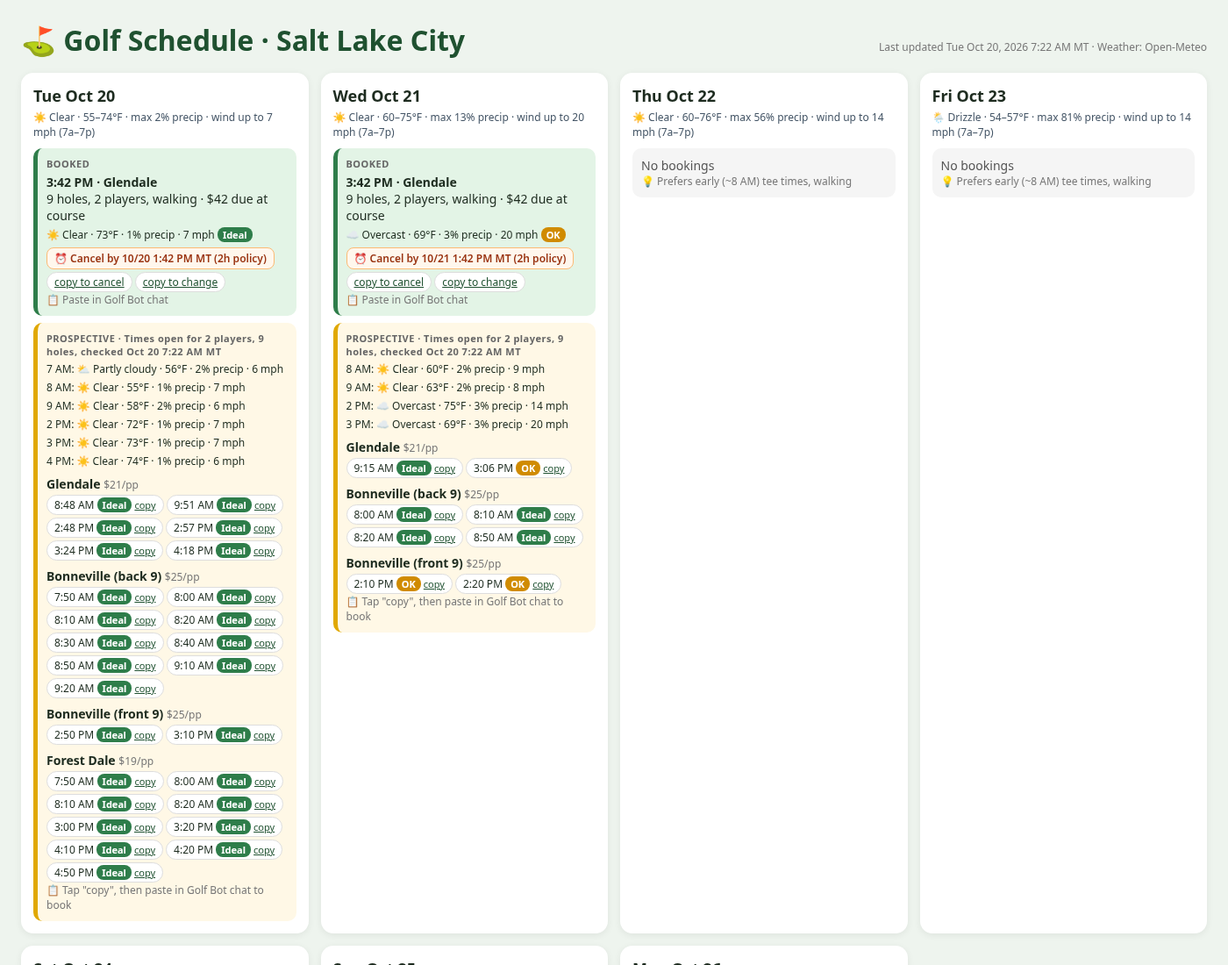
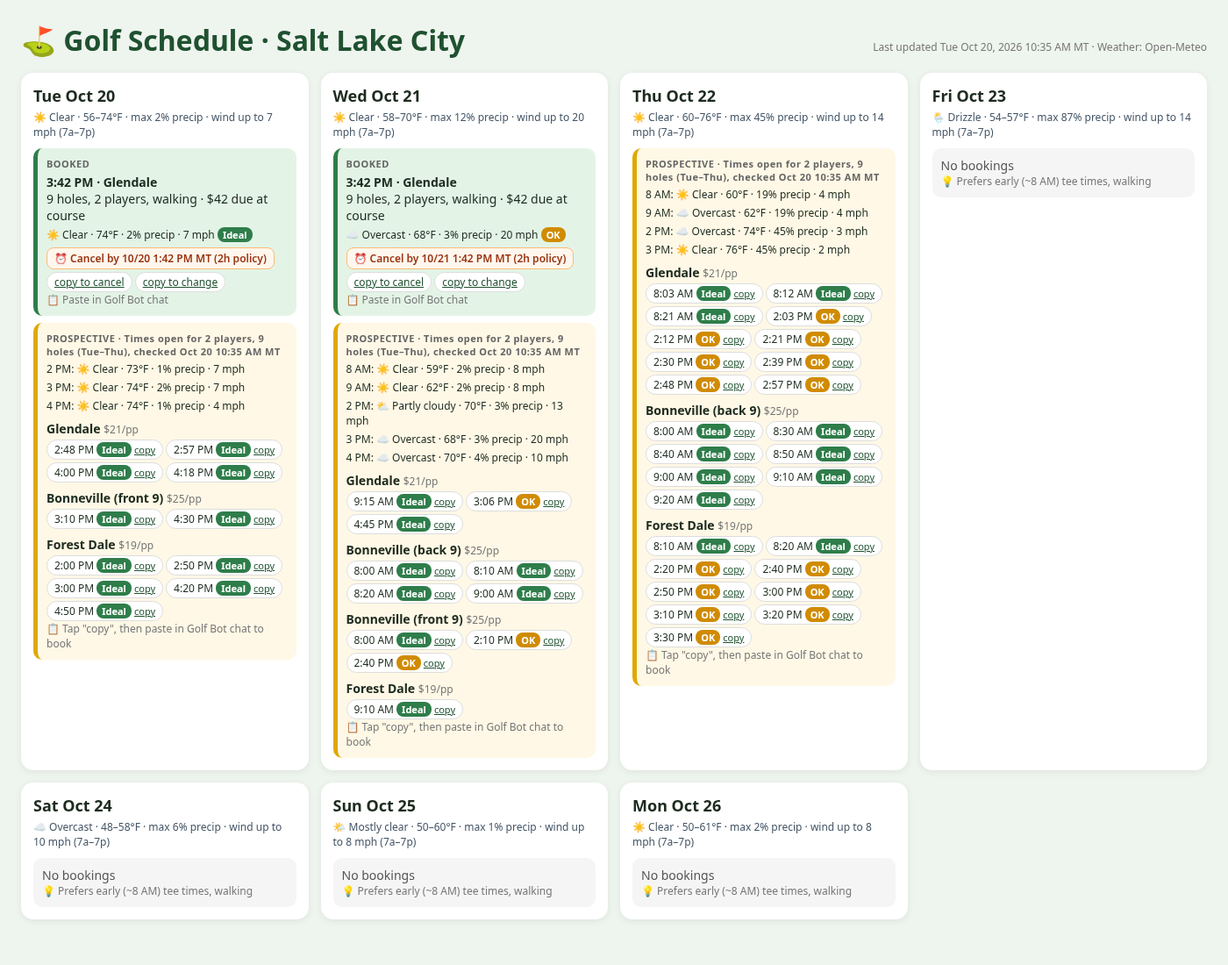
Update schedule 2026-10-20 10:35 MT

diff --git a/index.html b/index.html
@@ -9,5 +9,5 @@ h1{margin:0;color:#1f5130} .top{display:flex;justify-content:space-between;align
 .muted{color:#777;font-size:12px} .wx{font-size:12px;margin-top:4px} .prow{margin-top:8px}
 .cancelby{margin-top:6px;font-size:12px;font-weight:600;color:#9a3412;background:#fff7ed;border:1px solid #fdba74;border-radius:8px;padding:3px 8px;display:inline-block} .copy{font-size:11px;color:#1f5130} .chip{display:inline-block;background:#fff;border:1px solid #ddd;border-radius:14px;padding:2px 8px;margin:3px 3px 0 0;font-size:12px}
 .badge{border-radius:8px;padding:1px 6px;font-size:11px;font-weight:700;color:#fff} .ideal{background:#2e7d4a} .ok{background:#d08b00} .poor{background:#c0392b} .na{background:#888}
-</style></head><body><div class="top"><h1>⛳ Golf Schedule · Salt Lake City</h1><div class="muted">Last updated Tue Oct 20, 2026 7:22 AM MT · Weather: Open-Meteo</div></div>
-<div class="grid"><section class="day"><h2>Tue Oct 20</h2><div class="sum">☀ Clear · 55–74°F · max 2% precip · wind up to 7 mph (7a–7p)</div><div class="slot booked"><div class="tag">BOOKED</div><b>3:42 PM · Glendale</b><div>9 holes, 2 players, walking · $42 due at course</div><div class="wx">☀ Clear · 73°F · 1% precip · 7 mph <span class="badge ideal">Ideal</span></div><div class="cancelby">⏰ Cancel by 10/20 1:42 PM MT (2h policy)</div><a href="#" class="copy chip" data-msg="Cancel my Glendale tee time Tue Oct 20 3:42 PM" onclick="navigator.clipboard.writeText(this.dataset.msg);this.textContent='copied!';return false">copy to cancel</a><a href="#" class="copy chip" data-msg="Change my Glendale tee time Tue Oct 20 3:42 PM" onclick="navigator.clipboard.writeText(this.dataset.msg);this.textContent='copied!';return false">copy to change</a><div class="muted">📋 Paste in Golf Bot chat</div></div><div class="slot prospect"><div class="tag">PROSPECTIVE · Times open for 2 players, 9 holes, checked Oct 20 7:22 AM MT</div><div class="wx">7 AM: ⛅ Partly cloudy · 56°F · 2% precip · 6 mph</div><div class="wx">8 AM: ☀ Clear · 55°F · 1% precip · 7 mph</div><div class="wx">9 AM: ☀ Clear · 58°F · 2% precip · 6 mph</div><div class="wx">2 PM: ☀ Clear · 72°F · 1% precip · 7 mph</div><div class="wx">3 PM: ☀ Clear · 73°F · 1% precip · 7 mph</div><div class="wx">4 PM: ☀ Clear · 74°F · 1% precip · 6 mph</div><div class="prow"><b>Glendale</b> <span class="muted">$21/pp</span><div><span class="chip">8:48 AM <span class="badge ideal" title="☀ Clear · 55°F · 1% precip · 7 mph">Ideal</span> <a href="#" class="copy" data-msg="Book Glendale Tue Oct 20 8:48 AM" onclick="navigator.clipboard.writeText(this.dataset.msg);this.textContent='copied!';return false">copy</a></span><span class="chip">9:51 AM <span class="badge ideal" title="☀ Clear · 58°F · 2% precip · 6 mph">Ideal</span> <a href="#" class="copy" data-msg="Book Glendale Tue Oct 20 9:51 AM" onclick="navigator.clipboard.writeText(this.dataset.msg);this.textContent='copied!';return false">copy</a></span><span class="chip">2:48 PM <span class="badge ideal" title="☀ Clear · 72°F · 1% precip · 7 mph">Ideal</span> <a href="#" class="copy" data-msg="Book Glendale Tue Oct 20 2:48 PM" onclick="navigator.clipboard.writeText(this.dataset.msg);this.textContent='copied!';return false">copy</a></span><span class="chip">2:57 PM <span class="badge ideal" title="☀ Clear · 72°F · 1% precip · 7 mph">Ideal</span> <a href="#" class="copy" data-msg="Book Glendale Tue Oct 20 2:57 PM" onclick="navigator.clipboard.writeText(this.dataset.msg);this.textContent='copied!';return false">copy</a></span><span class="chip">3:24 PM <span class="badge ideal" title="☀ Clear · 73°F · 1% precip · 7 mph">Ideal</span> <a href="#" class="copy" data-msg="Book Glendale Tue Oct 20 3:24 PM" onclick="navigator.clipboard.writeText(this.dataset.msg);this.textContent='copied!';return false">copy</a></span><span class="chip">4:18 PM <span class="badge ideal" title="☀ Clear · 74°F · 1% precip · 6 mph">Ideal</span> <a href="#" class="copy" data-msg="Book Glendale Tue Oct 20 4:18 PM" onclick="navigator.clipboard.writeText(this.dataset.msg);this.textContent='copied!';return false">copy</a></span></div></div><div class="prow"><b>Bonneville (back 9)</b> <span class="muted">$25/pp</span><div><span class="chip">7:50 AM <span class="badge ideal" title="⛅ Partly cloudy · 56°F · 2% precip · 6 mph">Ideal</span> <a href="#" class="copy" data-msg="Book Bonneville (back 9) Tue Oct 20 7:50 AM" onclick="navigator.clipboard.writeText(this.dataset.msg);this.textContent='copied!';return false">copy</a></span><span class="chip">8:00 AM <span class="badge ideal" title="☀ Clear · 55°F · 1% precip · 7 mph">Ideal</span> <a href="#" class="copy" data-msg="Book Bonneville (back 9) Tue Oct 20 8:00 AM" onclick="navigator.clipboard.writeText(this.dataset.msg);this.textContent='copied!';return false">copy</a></span><span class="chip">8:10 AM <span class="badge ideal" title="☀ Clear · 55°F · 1% precip · 7 mph">Ideal</span> <a href="#" class="copy" data-msg="Book Bonneville (back 9) Tue Oct 20 8:10 AM" onclick="navigator.clipboard.writeText(this.dataset.msg);this.textContent='copied!';return false">copy</a></span><span class="chip">8:20 AM <span class="badge ideal" title="☀ Clear · 55°F · 1% precip · 7 mph">Ideal</span> <a href="#" class="copy" data-msg="Book Bonneville (back 9) Tue Oct 20 8:20 AM" onclick="navigator.clipboard.writeText(this.dataset.msg);this.textContent='copied!';return false">copy</a></span><span class="chip">8:30 AM <span class="badge ideal" title="☀ Clear · 55°F · 1% precip · 7 mph">Ideal</span> <a href="#" class="copy" data-msg="Book Bonneville (back 9) Tue Oct 20 8:30 AM" onclick="navigator.clipboard.writeText(this.dataset.msg);this.textContent='copied!';return false">copy</a></span><span class="chip">8:40 AM <span class="badge ideal" title="☀ Clear · 55°F · 1% precip · 7 mph">Ideal</span> <a href="#" class="copy" data-msg="Book Bonneville (back 9) Tue Oct 20 8:40 AM" onclick="navigator.clipboard.writeText(this.dataset.msg);this.textContent='copied!';return false">copy</a></span><span class="chip">8:50 AM <span class="badge ideal" title="☀ Clear · 55°F · 1% precip · 7 mph">Ideal</span> <a href="#" class="copy" data-msg="Book Bonneville (back 9) Tue Oct 20 8:50 AM" onclick="navigator.clipboard.writeText(this.dataset.msg);this.textContent='copied!';return false">copy</a></span><span class="chip">9:10 AM <span class="badge ideal" title="☀ Clear · 58°F · 2% precip · 6 mph">Ideal</span> <a href="#" class="copy" data-msg="Book Bonneville (back 9) Tue Oct 20 9:10 AM" onclick="navigator.clipboard.writeText(this.dataset.msg);this.textContent='copied!';return false">copy</a></span><span class="chip">9:20 AM <span class="badge ideal" title="☀ Clear · 58°F · 2% precip · 6 mph">Ideal</span> <a href="#" class="copy" data-msg="Book Bonneville (back 9) Tue Oct 20 9:20 AM" onclick="navigator.clipboard.writeText(this.dataset.msg);this.textContent='copied!';return false">copy</a></span></div></div><div class="prow"><b>Bonneville (front 9)</b> <span class="muted">$25/pp</span><div><span class="chip">2:50 PM <span class="badge ideal" title="☀ Clear · 72°F · 1% precip · 7 mph">Ideal</span> <a href="#" class="copy" data-msg="Book Bonneville (front 9) Tue Oct 20 2:50 PM" onclick="navigator.clipboard.writeText(this.dataset.msg);this.textContent='copied!';return false">copy</a></span><span class="chip">3:10 PM <span class="badge ideal" title="☀ Clear · 73°F · 1% precip · 7 mph">Ideal</span> <a href="#" class="copy" data-msg="Book Bonneville (front 9) Tue Oct 20 3:10 PM" onclick="navigator.clipboard.writeText(this.dataset.msg);this.textContent='copied!';return false">copy</a></span></div></div><div class="prow"><b>Forest Dale</b> <span class="muted">$19/pp</span><div><span class="chip">7:50 AM <span class="badge ideal" title="⛅ Partly cloudy · 56°F · 2% precip · 6 mph">Ideal</span> <a href="#" class="copy" data-msg="Book Forest Dale Tue Oct 20 7:50 AM" onclick="navigator.clipboard.writeText(this.dataset.msg);this.textContent='copied!';return false">copy</a></span><span class="chip">8:00 AM <span class="badge ideal" title="☀ Clear · 55°F · 1% precip · 7 mph">Ideal</span> <a href="#" class="copy" data-msg="Book Forest Dale Tue Oct 20 8:00 AM" onclick="navigator.clipboard.writeText(this.dataset.msg);this.textContent='copied!';return false">copy</a></span><span class="chip">8:10 AM <span class="badge ideal" title="☀ Clear · 55°F · 1% precip · 7 mph">Ideal</span> <a href="#" class="copy" data-msg="Book Forest Dale Tue Oct 20 8:10 AM" onclick="navigator.clipboard.writeText(this.dataset.msg);this.textContent='copied!';return false">copy</a></span><span class="chip">8:20 AM <span class="badge ideal" title="☀ Clear · 55°F · 1% precip · 7 mph">Ideal</span> <a href="#" class="copy" data-msg="Book Forest Dale Tue Oct 20 8:20 AM" onclick="navigator.clipboard.writeText(this.dataset.msg);this.textContent='copied!';return false">copy</a></span><span class="chip">3:00 PM <span class="badge ideal" title="☀ Clear · 73°F · 1% precip · 7 mph">Ideal</span> <a href="#" class="copy" data-msg="Book Forest Dale Tue Oct 20 3:00 PM" onclick="navigator.clipboard.writeText(this.dataset.msg);this.textContent='copied!';return false">copy</a></span><span class="chip">3:20 PM <span class="badge ideal" title="☀ Clear · 73°F · 1% precip · 7 mph">Ideal</span> <a href="#" class="copy" data-msg="Book Forest Dale Tue Oct 20 3:20 PM" onclick="navigator.clipboard.writeText(this.dataset.msg);this.textContent='copied!';return false">copy</a></span><span class="chip">4:10 PM <span class="badge ideal" title="☀ Clear · 74°F · 1% precip · 6 mph">Ideal</span> <a href="#" class="copy" data-msg="Book Forest Dale Tue Oct 20 4:10 PM" onclick="navigator.clipboard.writeText(this.dataset.msg);this.textContent='copied!';return false">copy</a></span><span class="chip">4:20 PM <span class="badge ideal" title="☀ Clear · 74°F · 1% precip · 6 mph">Ideal</span> <a href="#" class="copy" data-msg="Book Forest Dale Tue Oct 20 4:20 PM" onclick="navigator.clipboard.writeText(this.dataset.msg);this.textContent='copied!';return false">copy</a></span><span class="chip">4:50 PM <span class="badge ideal" title="☀ Clear · 74°F · 1% precip · 6 mph">Ideal</span> <a href="#" class="copy" data-msg="Book Forest Dale Tue Oct 20 4:50 PM" onclick="navigator.clipboard.writeText(this.dataset.msg);this.textContent='copied!';return false">copy</a></span></div></div><div class="muted">📋 Tap "copy", then paste in Golf Bot chat to book</div></div></section><section class="day"><h2>Wed Oct 21</h2><div class="sum">☀ Clear · 60–75°F · max 13% precip · wind up to 20 mph (7a–7p)</div><div class="slot booked"><div class="tag">BOOKED</div><b>3:42 PM · Glendale</b><div>9 holes, 2 players, walking · $42 due at course</div><div class="wx">☁ Overcast · 69°F · 3% precip · 20 mph <span class="badge ok">OK</span></div><div class="cancelby">⏰ Cancel by 10/21 1:42 PM MT (2h policy)</div><a href="#" class="copy chip" data-msg="Cancel my Glendale tee time Wed Oct 21 3:42 PM" onclick="navigator.clipboard.writeText(this.dataset.msg);this.textContent='copied!';return false">copy to cancel</a><a href="#" class="copy chip" data-msg="Change my Glendale tee time Wed Oct 21 3:42 PM" onclick="navigator.clipboard.writeText(this.dataset.msg);this.textContent='copied!';return false">copy to change</a><div class="muted">📋 Paste in Golf Bot chat</div></div><div class="slot prospect"><div class="tag">PROSPECTIVE · Times open for 2 players, 9 holes, checked Oct 20 7:22 AM MT</div><div class="wx">8 AM: ☀ Clear · 60°F · 2% precip · 9 mph</div><div class="wx">9 AM: ☀ Clear · 63°F · 2% precip · 8 mph</div><div class="wx">2 PM: ☁ Overcast · 75°F · 3% precip · 14 mph</div><div class="wx">3 PM: ☁ Overcast · 69°F · 3% precip · 20 mph</div><div class="prow"><b>Glendale</b> <span class="muted">$21/pp</span><div><span class="chip">9:15 AM <span class="badge ideal" title="☀ Clear · 63°F · 2% precip · 8 mph">Ideal</span> <a href="#" class="copy" data-msg="Book Glendale Wed Oct 21 9:15 AM" onclick="navigator.clipboard.writeText(this.dataset.msg);this.textContent='copied!';return false">copy</a></span><span class="chip">3:06 PM <span class="badge ok" title="☁ Overcast · 69°F · 3% precip · 20 mph">OK</span> <a href="#" class="copy" data-msg="Book Glendale Wed Oct 21 3:06 PM" onclick="navigator.clipboard.writeText(this.dataset.msg);this.textContent='copied!';return false">copy</a></span></div></div><div class="prow"><b>Bonneville (back 9)</b> <span class="muted">$25/pp</span><div><span class="chip">8:00 AM <span class="badge ideal" title="☀ Clear · 60°F · 2% precip · 9 mph">Ideal</span> <a href="#" class="copy" data-msg="Book Bonneville (back 9) Wed Oct 21 8:00 AM" onclick="navigator.clipboard.writeText(this.dataset.msg);this.textContent='copied!';return false">copy</a></span><span class="chip">8:10 AM <span class="badge ideal" title="☀ Clear · 60°F · 2% precip · 9 mph">Ideal</span> <a href="#" class="copy" data-msg="Book Bonneville (back 9) Wed Oct 21 8:10 AM" onclick="navigator.clipboard.writeText(this.dataset.msg);this.textContent='copied!';return false">copy</a></span><span class="chip">8:20 AM <span class="badge ideal" title="☀ Clear · 60°F · 2% precip · 9 mph">Ideal</span> <a href="#" class="copy" data-msg="Book Bonneville (back 9) Wed Oct 21 8:20 AM" onclick="navigator.clipboard.writeText(this.dataset.msg);this.textContent='copied!';return false">copy</a></span><span class="chip">8:50 AM <span class="badge ideal" title="☀ Clear · 60°F · 2% precip · 9 mph">Ideal</span> <a href="#" class="copy" data-msg="Book Bonneville (back 9) Wed Oct 21 8:50 AM" onclick="navigator.clipboard.writeText(this.dataset.msg);this.textContent='copied!';return false">copy</a></span></div></div><div class="prow"><b>Bonneville (front 9)</b> <span class="muted">$25/pp</span><div><span class="chip">2:10 PM <span class="badge ok" title="☁ Overcast · 75°F · 3% precip · 14 mph">OK</span> <a href="#" class="copy" data-msg="Book Bonneville (front 9) Wed Oct 21 2:10 PM" onclick="navigator.clipboard.writeText(this.dataset.msg);this.textContent='copied!';return false">copy</a></span><span class="chip">2:20 PM <span class="badge ok" title="☁ Overcast · 75°F · 3% precip · 14 mph">OK</span> <a href="#" class="copy" data-msg="Book Bonneville (front 9) Wed Oct 21 2:20 PM" onclick="navigator.clipboard.writeText(this.dataset.msg);this.textContent='copied!';return false">copy</a></span></div></div><div class="muted">📋 Tap "copy", then paste in Golf Bot chat to book</div></div></section><section class="day"><h2>Thu Oct 22</h2><div class="sum">☀ Clear · 60–76°F · max 56% precip · wind up to 14 mph (7a–7p)</div><div class="slot empty">No bookings<div class="muted">💡 Prefers early (~8 AM) tee times, walking</div></div></section><section class="day"><h2>Fri Oct 23</h2><div class="sum">🌦 Drizzle · 54–57°F · max 81% precip · wind up to 14 mph (7a–7p)</div><div class="slot empty">No bookings<div class="muted">💡 Prefers early (~8 AM) tee times, walking</div></div></section><section class="day"><h2>Sat Oct 24</h2><div class="sum">☁ Overcast · 48–58°F · max 3% precip · wind up to 10 mph (7a–7p)</div><div class="slot empty">No bookings<div class="muted">💡 Prefers early (~8 AM) tee times, walking</div></div></section><section class="day"><h2>Sun Oct 25</h2><div class="sum">🌤 Mostly clear · 50–60°F · max 1% precip · wind up to 8 mph (7a–7p)</div><div class="slot empty">No bookings<div class="muted">💡 Prefers early (~8 AM) tee times, walking</div></div></section><section class="day"><h2>Mon Oct 26</h2><div class="sum">☀ Clear · 50–61°F · max 5% precip · wind up to 8 mph (7a–7p)</div><div class="slot empty">No bookings<div class="muted">💡 Prefers early (~8 AM) tee times, walking</div></div></section></div></body></html>
+</style></head><body><div class="top"><h1>⛳ Golf Schedule · Salt Lake City</h1><div class="muted">Last updated Tue Oct 20, 2026 10:35 AM MT · Weather: Open-Meteo</div></div>
+<div class="grid"><section class="day"><h2>Tue Oct 20</h2><div class="sum">☀ Clear · 56–74°F · max 2% precip · wind up to 7 mph (7a–7p)</div><div class="slot booked"><div class="tag">BOOKED</div><b>3:42 PM · Glendale</b><div>9 holes, 2 players, walking · $42 due at course</div><div class="wx">☀ Clear · 74°F · 2% precip · 7 mph <span class="badge ideal">Ideal</span></div><div class="cancelby">⏰ Cancel by 10/20 1:42 PM MT (2h policy)</div><a href="#" class="copy chip" data-msg="Cancel my Glendale tee time Tue Oct 20 3:42 PM" onclick="navigator.clipboard.writeText(this.dataset.msg);this.textContent='copied!';return false">copy to cancel</a><a href="#" class="copy chip" data-msg="Change my Glendale tee time Tue Oct 20 3:42 PM" onclick="navigator.clipboard.writeText(this.dataset.msg);this.textContent='copied!';return false">copy to change</a><div class="muted">📋 Paste in Golf Bot chat</div></div><div class="slot prospect"><div class="tag">PROSPECTIVE · Times open for 2 players, 9 holes (Tue–Thu), checked Oct 20 10:35 AM MT</div><div class="wx">2 PM: ☀ Clear · 73°F · 1% precip · 7 mph</div><div class="wx">3 PM: ☀ Clear · 74°F · 2% precip · 7 mph</div><div class="wx">4 PM: ☀ Clear · 74°F · 1% precip · 4 mph</div><div class="prow"><b>Glendale</b> <span class="muted">$21/pp</span><div><span class="chip">2:48 PM <span class="badge ideal" title="☀ Clear · 73°F · 1% precip · 7 mph">Ideal</span> <a href="#" class="copy" data-msg="Book Glendale Tue Oct 20 2:48 PM" onclick="navigator.clipboard.writeText(this.dataset.msg);this.textContent='copied!';return false">copy</a></span><span class="chip">2:57 PM <span class="badge ideal" title="☀ Clear · 73°F · 1% precip · 7 mph">Ideal</span> <a href="#" class="copy" data-msg="Book Glendale Tue Oct 20 2:57 PM" onclick="navigator.clipboard.writeText(this.dataset.msg);this.textContent='copied!';return false">copy</a></span><span class="chip">4:00 PM <span class="badge ideal" title="☀ Clear · 74°F · 1% precip · 4 mph">Ideal</span> <a href="#" class="copy" data-msg="Book Glendale Tue Oct 20 4:00 PM" onclick="navigator.clipboard.writeText(this.dataset.msg);this.textContent='copied!';return false">copy</a></span><span class="chip">4:18 PM <span class="badge ideal" title="☀ Clear · 74°F · 1% precip · 4 mph">Ideal</span> <a href="#" class="copy" data-msg="Book Glendale Tue Oct 20 4:18 PM" onclick="navigator.clipboard.writeText(this.dataset.msg);this.textContent='copied!';return false">copy</a></span></div></div><div class="prow"><b>Bonneville (front 9)</b> <span class="muted">$25/pp</span><div><span class="chip">3:10 PM <span class="badge ideal" title="☀ Clear · 74°F · 2% precip · 7 mph">Ideal</span> <a href="#" class="copy" data-msg="Book Bonneville (front 9) Tue Oct 20 3:10 PM" onclick="navigator.clipboard.writeText(this.dataset.msg);this.textContent='copied!';return false">copy</a></span><span class="chip">4:30 PM <span class="badge ideal" title="☀ Clear · 74°F · 1% precip · 4 mph">Ideal</span> <a href="#" class="copy" data-msg="Book Bonneville (front 9) Tue Oct 20 4:30 PM" onclick="navigator.clipboard.writeText(this.dataset.msg);this.textContent='copied!';return false">copy</a></span></div></div><div class="prow"><b>Forest Dale</b> <span class="muted">$19/pp</span><div><span class="chip">2:00 PM <span class="badge ideal" title="☀ Clear · 73°F · 1% precip · 7 mph">Ideal</span> <a href="#" class="copy" data-msg="Book Forest Dale Tue Oct 20 2:00 PM" onclick="navigator.clipboard.writeText(this.dataset.msg);this.textContent='copied!';return false">copy</a></span><span class="chip">2:50 PM <span class="badge ideal" title="☀ Clear · 73°F · 1% precip · 7 mph">Ideal</span> <a href="#" class="copy" data-msg="Book Forest Dale Tue Oct 20 2:50 PM" onclick="navigator.clipboard.writeText(this.dataset.msg);this.textContent='copied!';return false">copy</a></span><span class="chip">3:00 PM <span class="badge ideal" title="☀ Clear · 74°F · 2% precip · 7 mph">Ideal</span> <a href="#" class="copy" data-msg="Book Forest Dale Tue Oct 20 3:00 PM" onclick="navigator.clipboard.writeText(this.dataset.msg);this.textContent='copied!';return false">copy</a></span><span class="chip">4:20 PM <span class="badge ideal" title="☀ Clear · 74°F · 1% precip · 4 mph">Ideal</span> <a href="#" class="copy" data-msg="Book Forest Dale Tue Oct 20 4:20 PM" onclick="navigator.clipboard.writeText(this.dataset.msg);this.textContent='copied!';return false">copy</a></span><span class="chip">4:50 PM <span class="badge ideal" title="☀ Clear · 74°F · 1% precip · 4 mph">Ideal</span> <a href="#" class="copy" data-msg="Book Forest Dale Tue Oct 20 4:50 PM" onclick="navigator.clipboard.writeText(this.dataset.msg);this.textContent='copied!';return false">copy</a></span></div></div><div class="muted">📋 Tap "copy", then paste in Golf Bot chat to book</div></div></section><section class="day"><h2>Wed Oct 21</h2><div class="sum">☀ Clear · 58–70°F · max 12% precip · wind up to 20 mph (7a–7p)</div><div class="slot booked"><div class="tag">BOOKED</div><b>3:42 PM · Glendale</b><div>9 holes, 2 players, walking · $42 due at course</div><div class="wx">☁ Overcast · 68°F · 3% precip · 20 mph <span class="badge ok">OK</span></div><div class="cancelby">⏰ Cancel by 10/21 1:42 PM MT (2h policy)</div><a href="#" class="copy chip" data-msg="Cancel my Glendale tee time Wed Oct 21 3:42 PM" onclick="navigator.clipboard.writeText(this.dataset.msg);this.textContent='copied!';return false">copy to cancel</a><a href="#" class="copy chip" data-msg="Change my Glendale tee time Wed Oct 21 3:42 PM" onclick="navigator.clipboard.writeText(this.dataset.msg);this.textContent='copied!';return false">copy to change</a><div class="muted">📋 Paste in Golf Bot chat</div></div><div class="slot prospect"><div class="tag">PROSPECTIVE · Times open for 2 players, 9 holes (Tue–Thu), checked Oct 20 10:35 AM MT</div><div class="wx">8 AM: ☀ Clear · 59°F · 2% precip · 8 mph</div><div class="wx">9 AM: ☀ Clear · 62°F · 2% precip · 8 mph</div><div class="wx">2 PM: ⛅ Partly cloudy · 70°F · 3% precip · 13 mph</div><div class="wx">3 PM: ☁ Overcast · 68°F · 3% precip · 20 mph</div><div class="wx">4 PM: ☁ Overcast · 70°F · 4% precip · 10 mph</div><div class="prow"><b>Glendale</b> <span class="muted">$21/pp</span><div><span class="chip">9:15 AM <span class="badge ideal" title="☀ Clear · 62°F · 2% precip · 8 mph">Ideal</span> <a href="#" class="copy" data-msg="Book Glendale Wed Oct 21 9:15 AM" onclick="navigator.clipboard.writeText(this.dataset.msg);this.textContent='copied!';return false">copy</a></span><span class="chip">3:06 PM <span class="badge ok" title="☁ Overcast · 68°F · 3% precip · 20 mph">OK</span> <a href="#" class="copy" data-msg="Book Glendale Wed Oct 21 3:06 PM" onclick="navigator.clipboard.writeText(this.dataset.msg);this.textContent='copied!';return false">copy</a></span><span class="chip">4:45 PM <span class="badge ideal" title="☁ Overcast · 70°F · 4% precip · 10 mph">Ideal</span> <a href="#" class="copy" data-msg="Book Glendale Wed Oct 21 4:45 PM" onclick="navigator.clipboard.writeText(this.dataset.msg);this.textContent='copied!';return false">copy</a></span></div></div><div class="prow"><b>Bonneville (back 9)</b> <span class="muted">$25/pp</span><div><span class="chip">8:00 AM <span class="badge ideal" title="☀ Clear · 59°F · 2% precip · 8 mph">Ideal</span> <a href="#" class="copy" data-msg="Book Bonneville (back 9) Wed Oct 21 8:00 AM" onclick="navigator.clipboard.writeText(this.dataset.msg);this.textContent='copied!';return false">copy</a></span><span class="chip">8:10 AM <span class="badge ideal" title="☀ Clear · 59°F · 2% precip · 8 mph">Ideal</span> <a href="#" class="copy" data-msg="Book Bonneville (back 9) Wed Oct 21 8:10 AM" onclick="navigator.clipboard.writeText(this.dataset.msg);this.textContent='copied!';return false">copy</a></span><span class="chip">8:20 AM <span class="badge ideal" title="☀ Clear · 59°F · 2% precip · 8 mph">Ideal</span> <a href="#" class="copy" data-msg="Book Bonneville (back 9) Wed Oct 21 8:20 AM" onclick="navigator.clipboard.writeText(this.dataset.msg);this.textContent='copied!';return false">copy</a></span><span class="chip">9:00 AM <span class="badge ideal" title="☀ Clear · 62°F · 2% precip · 8 mph">Ideal</span> <a href="#" class="copy" data-msg="Book Bonneville (back 9) Wed Oct 21 9:00 AM" onclick="navigator.clipboard.writeText(this.dataset.msg);this.textContent='copied!';return false">copy</a></span></div></div><div class="prow"><b>Bonneville (front 9)</b> <span class="muted">$25/pp</span><div><span class="chip">8:00 AM <span class="badge ideal" title="☀ Clear · 59°F · 2% precip · 8 mph">Ideal</span> <a href="#" class="copy" data-msg="Book Bonneville (front 9) Wed Oct 21 8:00 AM" onclick="navigator.clipboard.writeText(this.dataset.msg);this.textContent='copied!';return false">copy</a></span><span class="chip">2:10 PM <span class="badge ok" title="⛅ Partly cloudy · 70°F · 3% precip · 13 mph">OK</span> <a href="#" class="copy" data-msg="Book Bonneville (front 9) Wed Oct 21 2:10 PM" onclick="navigator.clipboard.writeText(this.dataset.msg);this.textContent='copied!';return false">copy</a></span><span class="chip">2:40 PM <span class="badge ok" title="⛅ Partly cloudy · 70°F · 3% precip · 13 mph">OK</span> <a href="#" class="copy" data-msg="Book Bonneville (front 9) Wed Oct 21 2:40 PM" onclick="navigator.clipboard.writeText(this.dataset.msg);this.textContent='copied!';return false">copy</a></span></div></div><div class="prow"><b>Forest Dale</b> <span class="muted">$19/pp</span><div><span class="chip">9:10 AM <span class="badge ideal" title="☀ Clear · 62°F · 2% precip · 8 mph">Ideal</span> <a href="#" class="copy" data-msg="Book Forest Dale Wed Oct 21 9:10 AM" onclick="navigator.clipboard.writeText(this.dataset.msg);this.textContent='copied!';return false">copy</a></span></div></div><div class="muted">📋 Tap "copy", then paste in Golf Bot chat to book</div></div></section><section class="day"><h2>Thu Oct 22</h2><div class="sum">☀ Clear · 60–76°F · max 45% precip · wind up to 14 mph (7a–7p)</div><div class="slot prospect"><div class="tag">PROSPECTIVE · Times open for 2 players, 9 holes (Tue–Thu), checked Oct 20 10:35 AM MT</div><div class="wx">8 AM: ☀ Clear · 60°F · 19% precip · 4 mph</div><div class="wx">9 AM: ☁ Overcast · 62°F · 19% precip · 4 mph</div><div class="wx">2 PM: ☁ Overcast · 74°F · 45% precip · 3 mph</div><div class="wx">3 PM: ☀ Clear · 76°F · 45% precip · 2 mph</div><div class="prow"><b>Glendale</b> <span class="muted">$21/pp</span><div><span class="chip">8:03 AM <span class="badge ideal" title="☀ Clear · 60°F · 19% precip · 4 mph">Ideal</span> <a href="#" class="copy" data-msg="Book Glendale Thu Oct 22 8:03 AM" onclick="navigator.clipboard.writeText(this.dataset.msg);this.textContent='copied!';return false">copy</a></span><span class="chip">8:12 AM <span class="badge ideal" title="☀ Clear · 60°F · 19% precip · 4 mph">Ideal</span> <a href="#" class="copy" data-msg="Book Glendale Thu Oct 22 8:12 AM" onclick="navigator.clipboard.writeText(this.dataset.msg);this.textContent='copied!';return false">copy</a></span><span class="chip">8:21 AM <span class="badge ideal" title="☀ Clear · 60°F · 19% precip · 4 mph">Ideal</span> <a href="#" class="copy" data-msg="Book Glendale Thu Oct 22 8:21 AM" onclick="navigator.clipboard.writeText(this.dataset.msg);this.textContent='copied!';return false">copy</a></span><span class="chip">2:03 PM <span class="badge ok" title="☁ Overcast · 74°F · 45% precip · 3 mph">OK</span> <a href="#" class="copy" data-msg="Book Glendale Thu Oct 22 2:03 PM" onclick="navigator.clipboard.writeText(this.dataset.msg);this.textContent='copied!';return false">copy</a></span><span class="chip">2:12 PM <span class="badge ok" title="☁ Overcast · 74°F · 45% precip · 3 mph">OK</span> <a href="#" class="copy" data-msg="Book Glendale Thu Oct 22 2:12 PM" onclick="navigator.clipboard.writeText(this.dataset.msg);this.textContent='copied!';return false">copy</a></span><span class="chip">2:21 PM <span class="badge ok" title="☁ Overcast · 74°F · 45% precip · 3 mph">OK</span> <a href="#" class="copy" data-msg="Book Glendale Thu Oct 22 2:21 PM" onclick="navigator.clipboard.writeText(this.dataset.msg);this.textContent='copied!';return false">copy</a></span><span class="chip">2:30 PM <span class="badge ok" title="☁ Overcast · 74°F · 45% precip · 3 mph">OK</span> <a href="#" class="copy" data-msg="Book Glendale Thu Oct 22 2:30 PM" onclick="navigator.clipboard.writeText(this.dataset.msg);this.textContent='copied!';return false">copy</a></span><span class="chip">2:39 PM <span class="badge ok" title="☁ Overcast · 74°F · 45% precip · 3 mph">OK</span> <a href="#" class="copy" data-msg="Book Glendale Thu Oct 22 2:39 PM" onclick="navigator.clipboard.writeText(this.dataset.msg);this.textContent='copied!';return false">copy</a></span><span class="chip">2:48 PM <span class="badge ok" title="☁ Overcast · 74°F · 45% precip · 3 mph">OK</span> <a href="#" class="copy" data-msg="Book Glendale Thu Oct 22 2:48 PM" onclick="navigator.clipboard.writeText(this.dataset.msg);this.textContent='copied!';return false">copy</a></span><span class="chip">2:57 PM <span class="badge ok" title="☁ Overcast · 74°F · 45% precip · 3 mph">OK</span> <a href="#" class="copy" data-msg="Book Glendale Thu Oct 22 2:57 PM" onclick="navigator.clipboard.writeText(this.dataset.msg);this.textContent='copied!';return false">copy</a></span></div></div><div class="prow"><b>Bonneville (back 9)</b> <span class="muted">$25/pp</span><div><span class="chip">8:00 AM <span class="badge ideal" title="☀ Clear · 60°F · 19% precip · 4 mph">Ideal</span> <a href="#" class="copy" data-msg="Book Bonneville (back 9) Thu Oct 22 8:00 AM" onclick="navigator.clipboard.writeText(this.dataset.msg);this.textContent='copied!';return false">copy</a></span><span class="chip">8:30 AM <span class="badge ideal" title="☀ Clear · 60°F · 19% precip · 4 mph">Ideal</span> <a href="#" class="copy" data-msg="Book Bonneville (back 9) Thu Oct 22 8:30 AM" onclick="navigator.clipboard.writeText(this.dataset.msg);this.textContent='copied!';return false">copy</a></span><span class="chip">8:40 AM <span class="badge ideal" title="☀ Clear · 60°F · 19% precip · 4 mph">Ideal</span> <a href="#" class="copy" data-msg="Book Bonneville (back 9) Thu Oct 22 8:40 AM" onclick="navigator.clipboard.writeText(this.dataset.msg);this.textContent='copied!';return false">copy</a></span><span class="chip">8:50 AM <span class="badge ideal" title="☀ Clear · 60°F · 19% precip · 4 mph">Ideal</span> <a href="#" class="copy" data-msg="Book Bonneville (back 9) Thu Oct 22 8:50 AM" onclick="navigator.clipboard.writeText(this.dataset.msg);this.textContent='copied!';return false">copy</a></span><span class="chip">9:00 AM <span class="badge ideal" title="☁ Overcast · 62°F · 19% precip · 4 mph">Ideal</span> <a href="#" class="copy" data-msg="Book Bonneville (back 9) Thu Oct 22 9:00 AM" onclick="navigator.clipboard.writeText(this.dataset.msg);this.textContent='copied!';return false">copy</a></span><span class="chip">9:10 AM <span class="badge ideal" title="☁ Overcast · 62°F · 19% precip · 4 mph">Ideal</span> <a href="#" class="copy" data-msg="Book Bonneville (back 9) Thu Oct 22 9:10 AM" onclick="navigator.clipboard.writeText(this.dataset.msg);this.textContent='copied!';return false">copy</a></span><span class="chip">9:20 AM <span class="badge ideal" title="☁ Overcast · 62°F · 19% precip · 4 mph">Ideal</span> <a href="#" class="copy" data-msg="Book Bonneville (back 9) Thu Oct 22 9:20 AM" onclick="navigator.clipboard.writeText(this.dataset.msg);this.textContent='copied!';return false">copy</a></span></div></div><div class="prow"><b>Forest Dale</b> <span class="muted">$19/pp</span><div><span class="chip">8:10 AM <span class="badge ideal" title="☀ Clear · 60°F · 19% precip · 4 mph">Ideal</span> <a href="#" class="copy" data-msg="Book Forest Dale Thu Oct 22 8:10 AM" onclick="navigator.clipboard.writeText(this.dataset.msg);this.textContent='copied!';return false">copy</a></span><span class="chip">8:20 AM <span class="badge ideal" title="☀ Clear · 60°F · 19% precip · 4 mph">Ideal</span> <a href="#" class="copy" data-msg="Book Forest Dale Thu Oct 22 8:20 AM" onclick="navigator.clipboard.writeText(this.dataset.msg);this.textContent='copied!';return false">copy</a></span><span class="chip">2:20 PM <span class="badge ok" title="☁ Overcast · 74°F · 45% precip · 3 mph">OK</span> <a href="#" class="copy" data-msg="Book Forest Dale Thu Oct 22 2:20 PM" onclick="navigator.clipboard.writeText(this.dataset.msg);this.textContent='copied!';return false">copy</a></span><span class="chip">2:40 PM <span class="badge ok" title="☁ Overcast · 74°F · 45% precip · 3 mph">OK</span> <a href="#" class="copy" data-msg="Book Forest Dale Thu Oct 22 2:40 PM" onclick="navigator.clipboard.writeText(this.dataset.msg);this.textContent='copied!';return false">copy</a></span><span class="chip">2:50 PM <span class="badge ok" title="☁ Overcast · 74°F · 45% precip · 3 mph">OK</span> <a href="#" class="copy" data-msg="Book Forest Dale Thu Oct 22 2:50 PM" onclick="navigator.clipboard.writeText(this.dataset.msg);this.textContent='copied!';return false">copy</a></span><span class="chip">3:00 PM <span class="badge ok" title="☀ Clear · 76°F · 45% precip · 2 mph">OK</span> <a href="#" class="copy" data-msg="Book Forest Dale Thu Oct 22 3:00 PM" onclick="navigator.clipboard.writeText(this.dataset.msg);this.textContent='copied!';return false">copy</a></span><span class="chip">3:10 PM <span class="badge ok" title="☀ Clear · 76°F · 45% precip · 2 mph">OK</span> <a href="#" class="copy" data-msg="Book Forest Dale Thu Oct 22 3:10 PM" onclick="navigator.clipboard.writeText(this.dataset.msg);this.textContent='copied!';return false">copy</a></span><span class="chip">3:20 PM <span class="badge ok" title="☀ Clear · 76°F · 45% precip · 2 mph">OK</span> <a href="#" class="copy" data-msg="Book Forest Dale Thu Oct 22 3:20 PM" onclick="navigator.clipboard.writeText(this.dataset.msg);this.textContent='copied!';return false">copy</a></span><span class="chip">3:30 PM <span class="badge ok" title="☀ Clear · 76°F · 45% precip · 2 mph">OK</span> <a href="#" class="copy" data-msg="Book Forest Dale Thu Oct 22 3:30 PM" onclick="navigator.clipboard.writeText(this.dataset.msg);this.textContent='copied!';return false">copy</a></span></div></div><div class="muted">📋 Tap "copy", then paste in Golf Bot chat to book</div></div></section><section class="day"><h2>Fri Oct 23</h2><div class="sum">🌦 Drizzle · 54–57°F · max 87% precip · wind up to 14 mph (7a–7p)</div><div class="slot empty">No bookings<div class="muted">💡 Prefers early (~8 AM) tee times, walking</div></div></section><section class="day"><h2>Sat Oct 24</h2><div class="sum">☁ Overcast · 48–58°F · max 6% precip · wind up to 10 mph (7a–7p)</div><div class="slot empty">No bookings<div class="muted">💡 Prefers early (~8 AM) tee times, walking</div></div></section><section class="day"><h2>Sun Oct 25</h2><div class="sum">🌤 Mostly clear · 50–60°F · max 1% precip · wind up to 8 mph (7a–7p)</div><div class="slot empty">No bookings<div class="muted">💡 Prefers early (~8 AM) tee times, walking</div></div></section><section class="day"><h2>Mon Oct 26</h2><div class="sum">☀ Clear · 50–61°F · max 2% precip · wind up to 8 mph (7a–7p)</div><div class="slot empty">No bookings<div class="muted">💡 Prefers early (~8 AM) tee times, walking</div></div></section></div></body></html>
